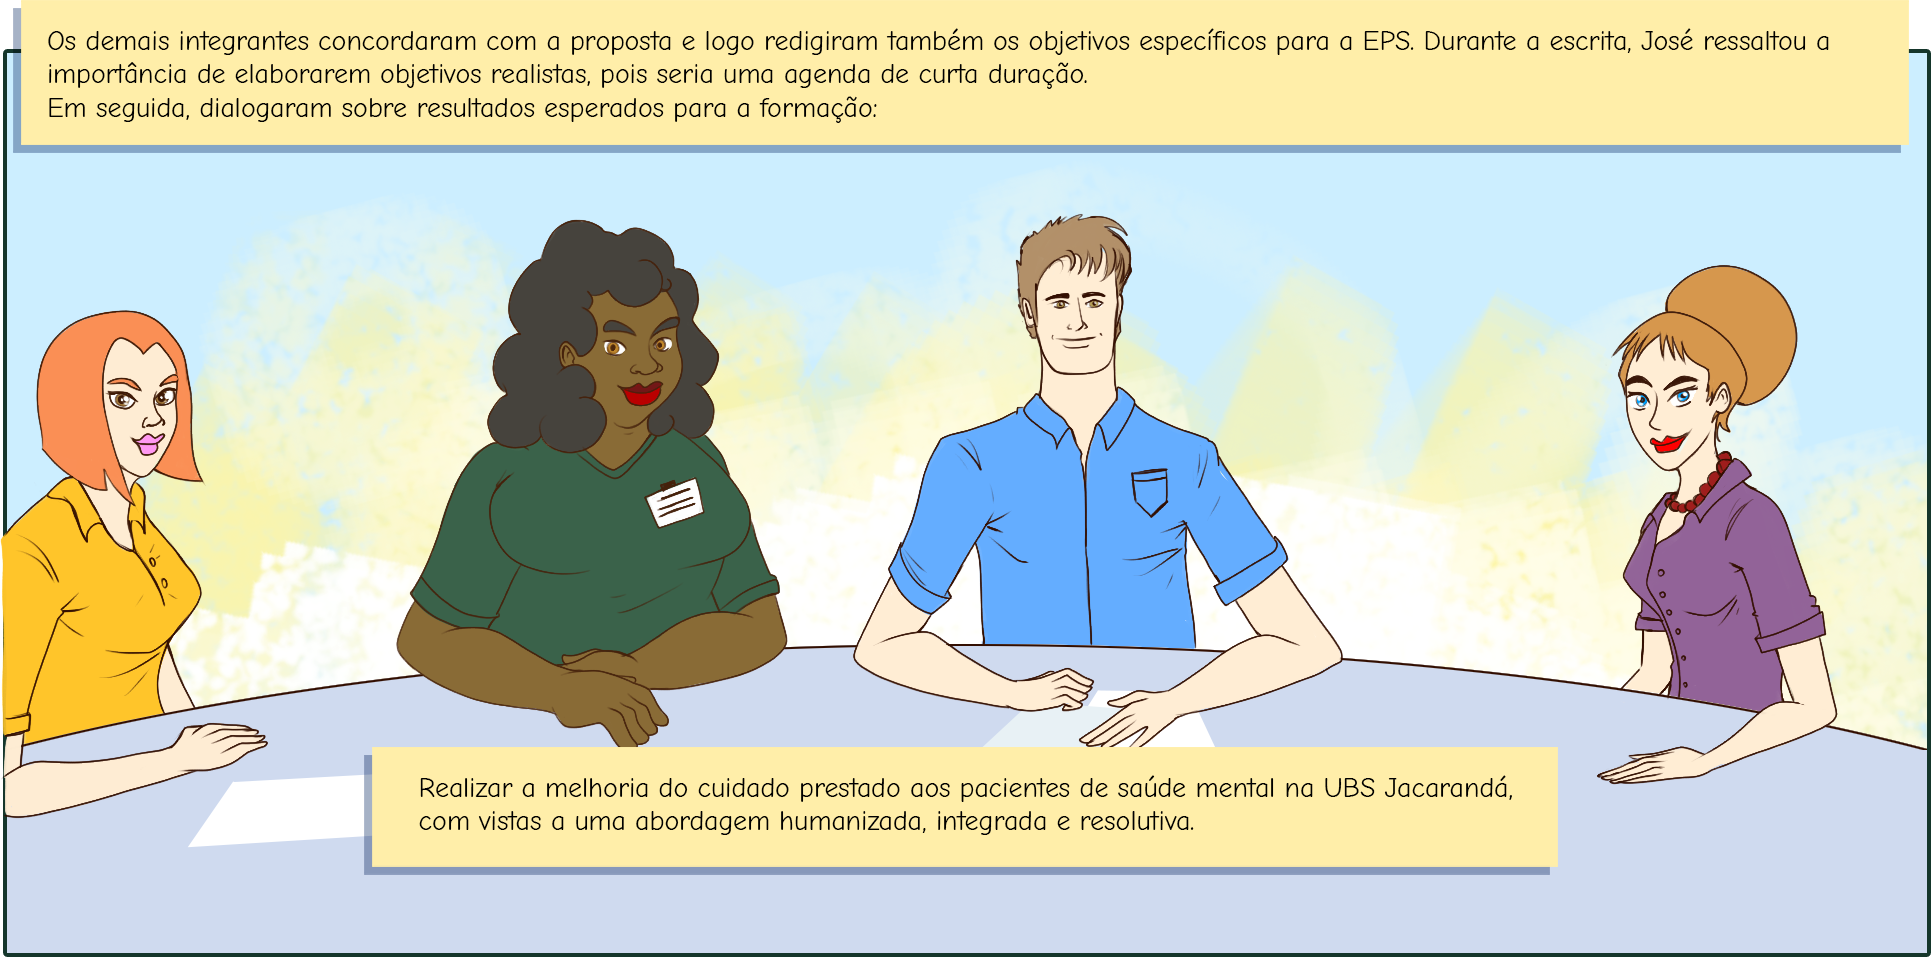
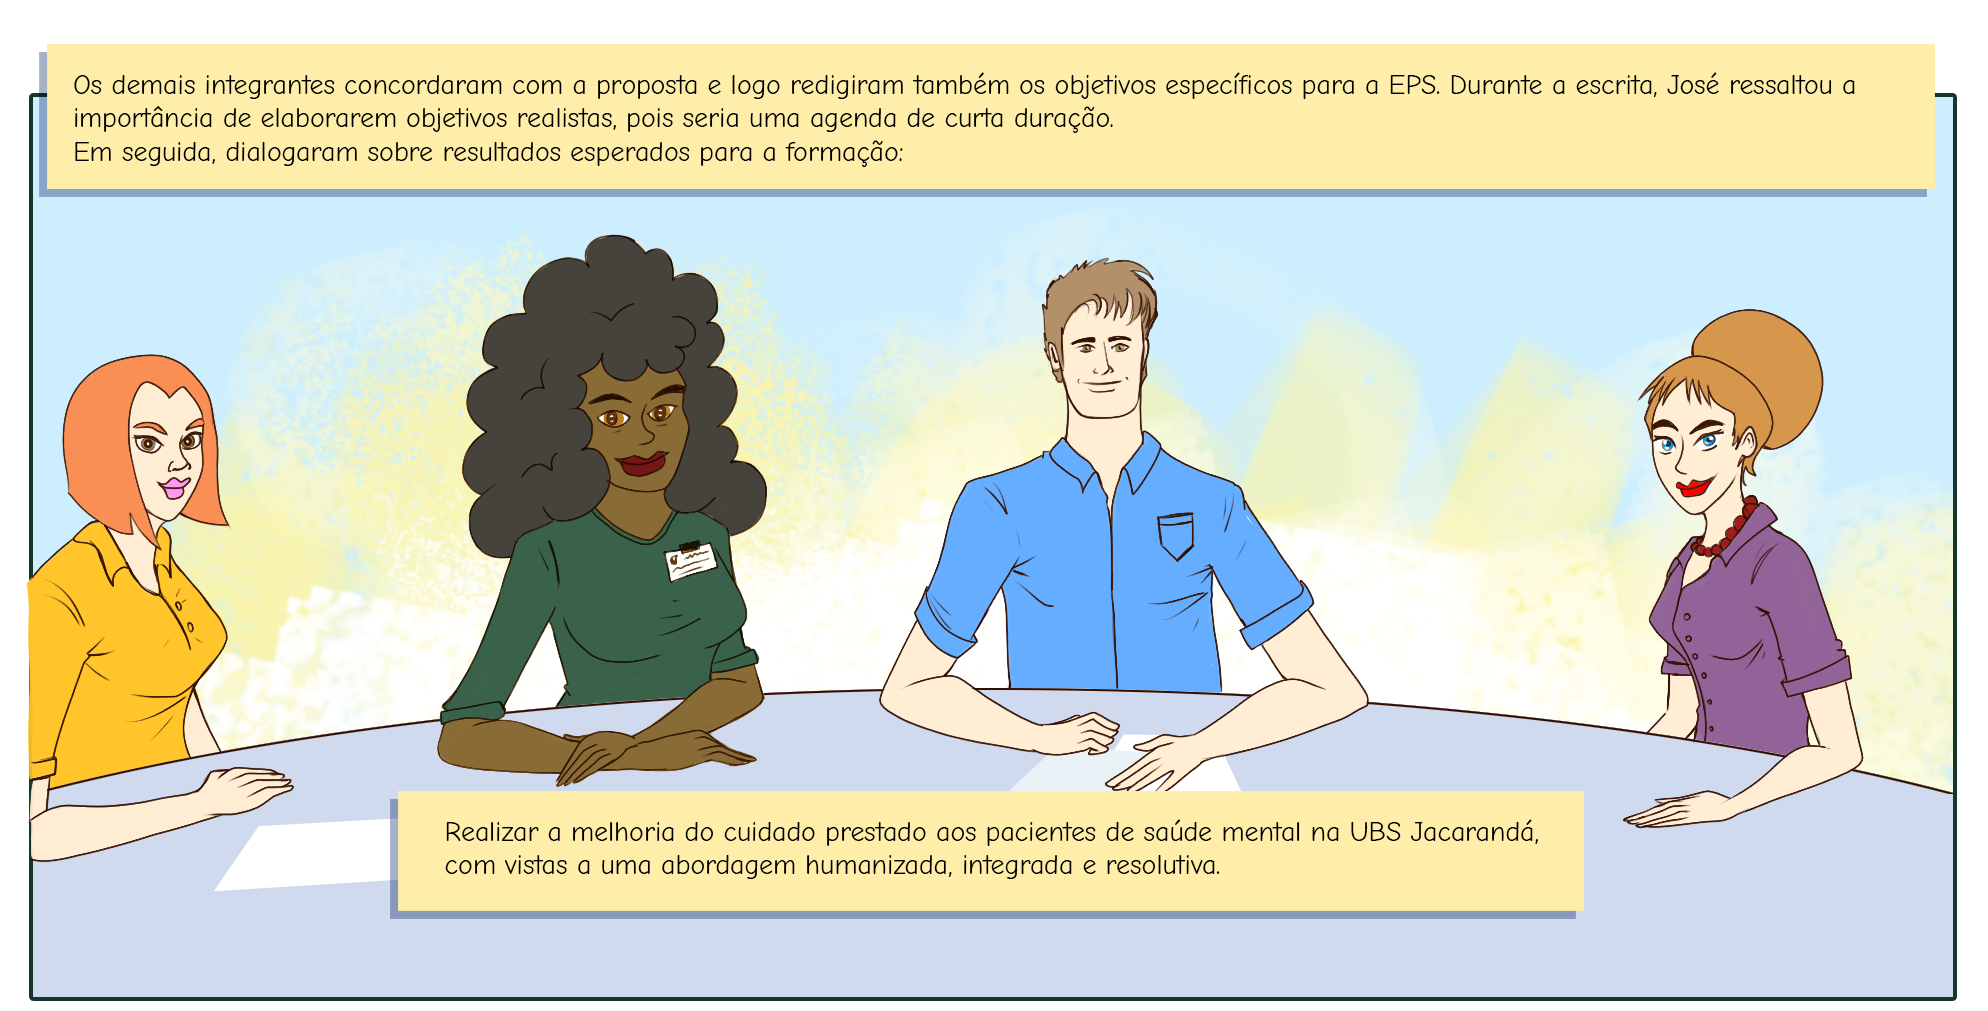
ajustes

diff --git a/tela-8.html b/tela-8.html
@@ -9,7 +9,7 @@
 <div style="margin-top: 117px;margin-left: 41px;width: 808px;">
     <p>Ao final da reunião, a equipe definiu uma importante etapa: a de estabelecer um grupo de trabalho para a
         organização da
-        proposta de EPS. Entre os profissionais sugeridos para essa construção, estão representantes do NASF e do
+        proposta de EPS. Entre os profissionais sugeridos para essa construção, estão representantes do NASF-AB e do
         Núcleo de
         Educação Permanente da Região, além de uma representação da equipe e da gestão da UBS. Com isso, o
         planejamento da ação

diff --git a/tela-15.html b/tela-15.html
@@ -16,8 +16,8 @@
                 a agenda de EPS.</p>
         </div>
         <div class="animate__animated animate__backInRight" style="display: flex;">
-            <img src="recursos/imgs/Char_Ana-Luiza.png" style="width: 288px;margin-top: 19px;margin-right: -100px;">
-            <img src="recursos/imgs/Char_Evelyn.png" style="width: 256px;margin-top: 19px;">
+
+            <img src="recursos/imgs/Char_Evelyn.png" style="margin-left: 90px;width: 306px;margin-top: 10px;">
         </div>
     </div>
 </div>
